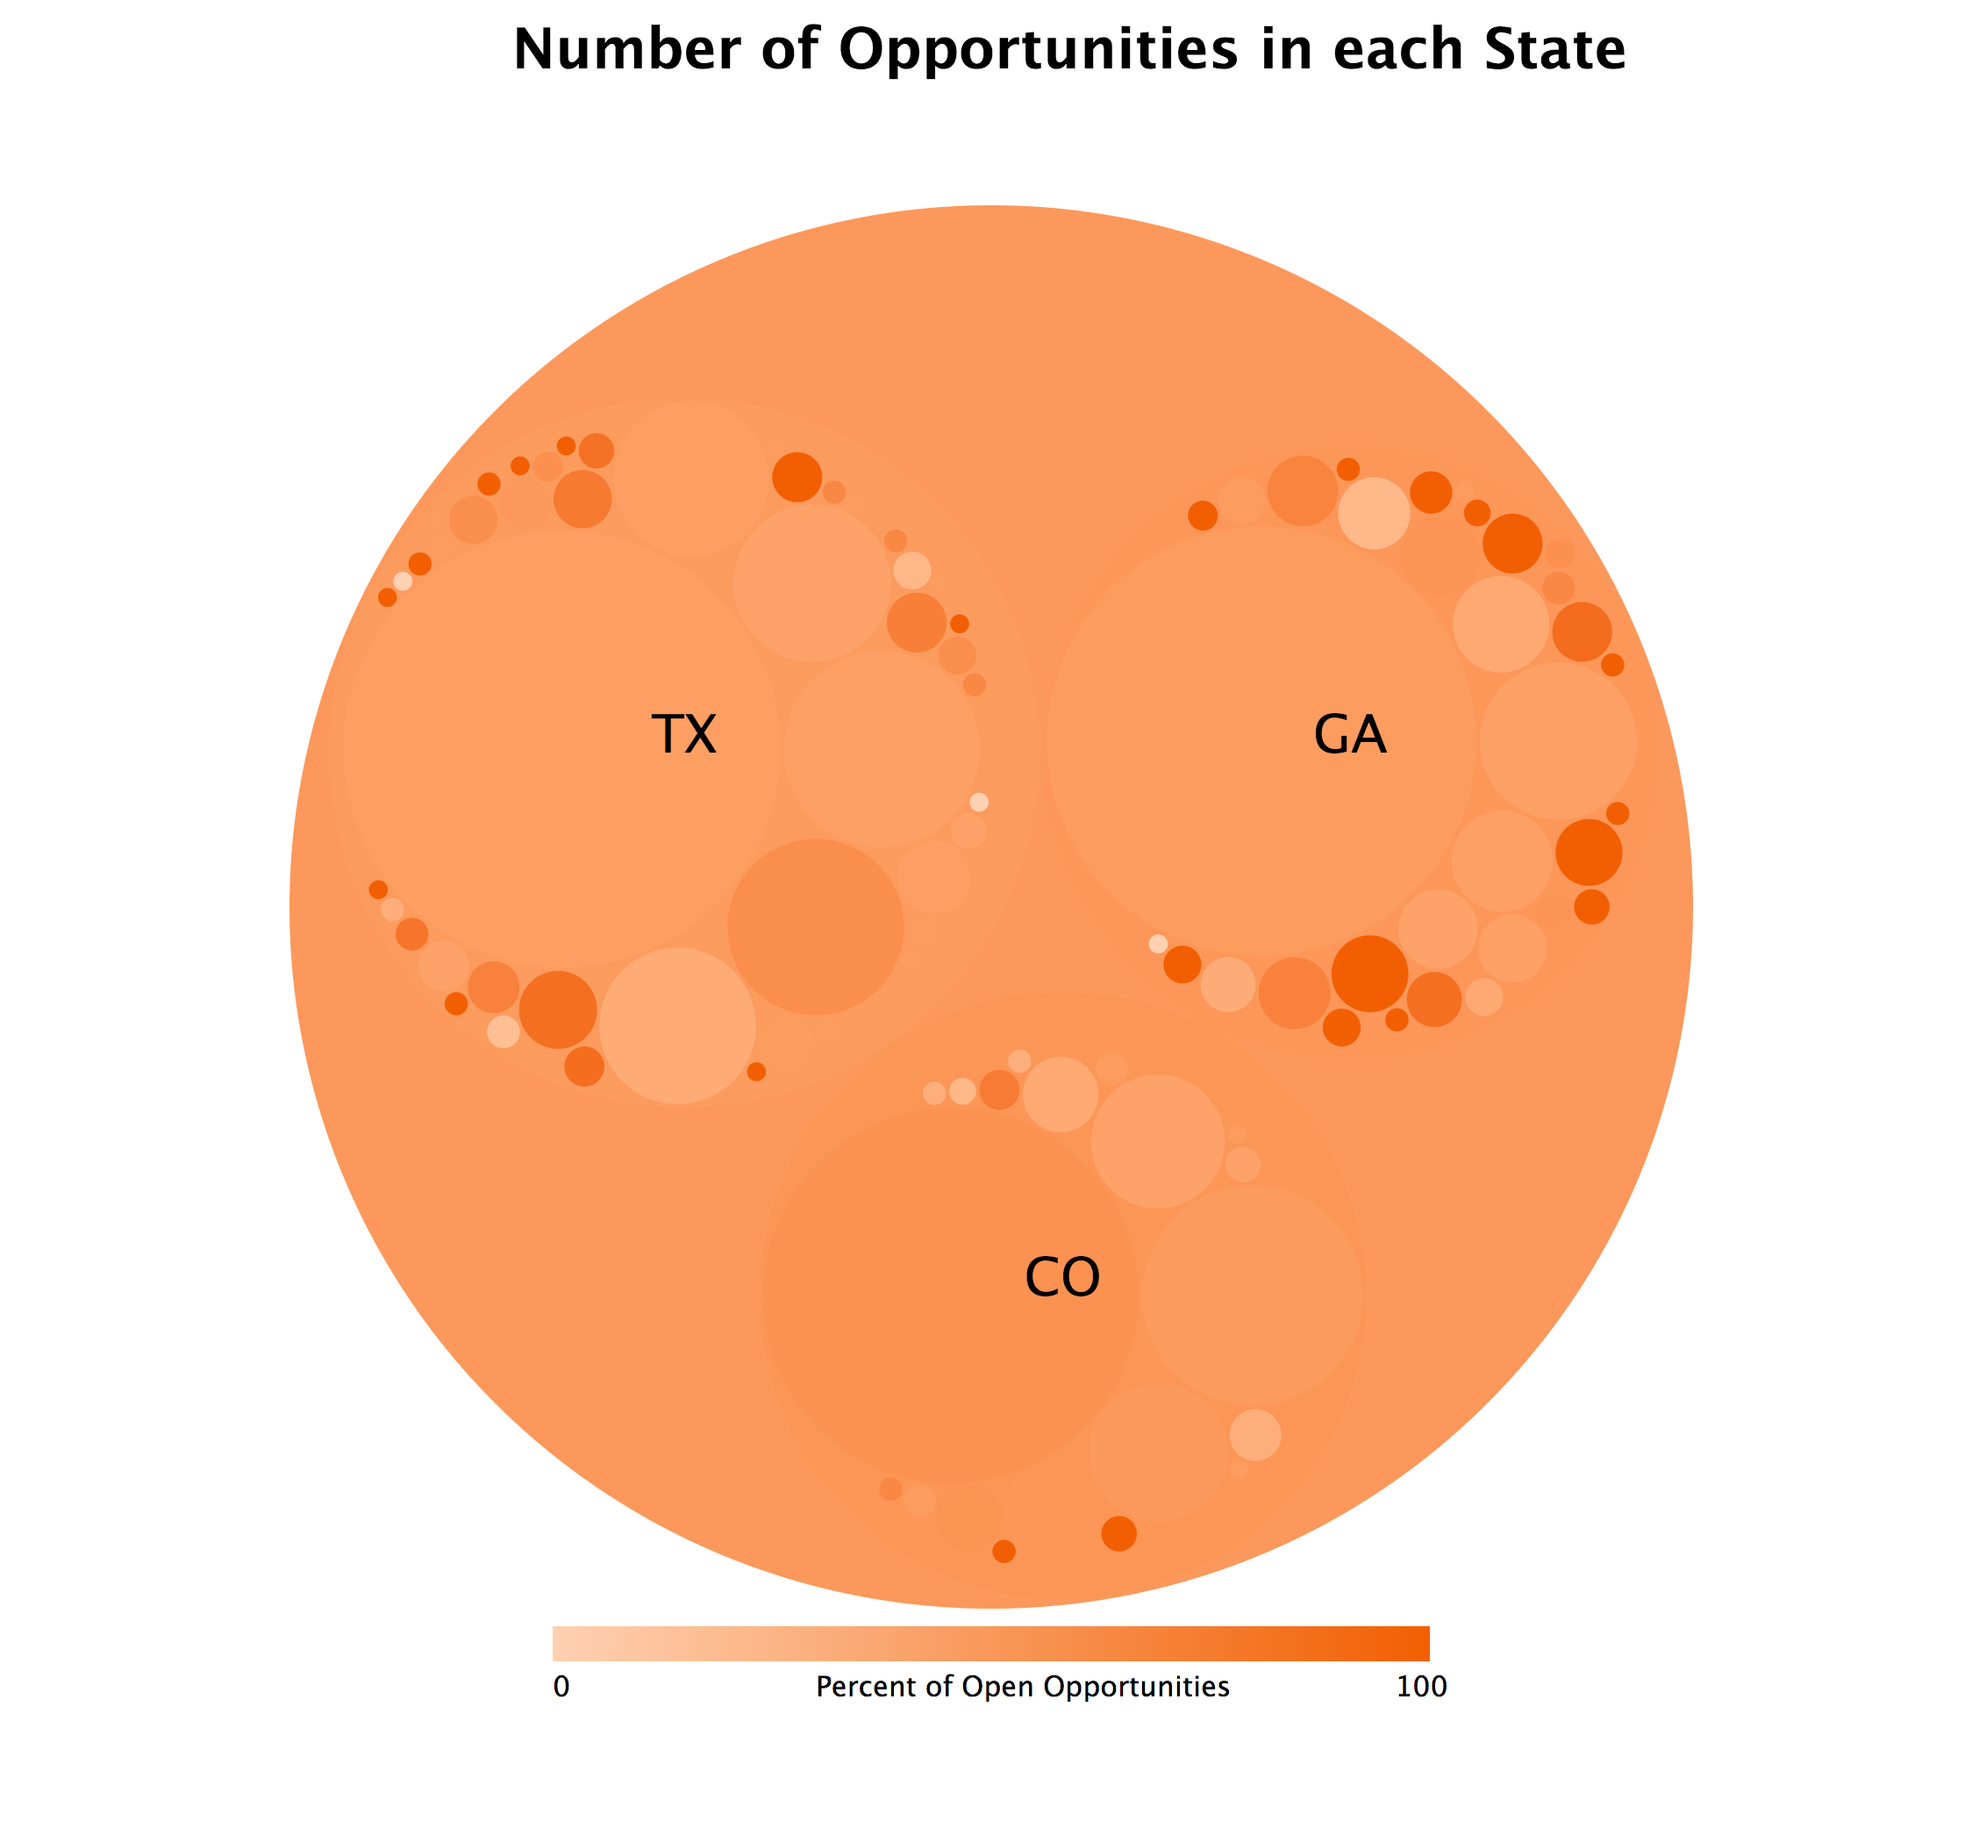
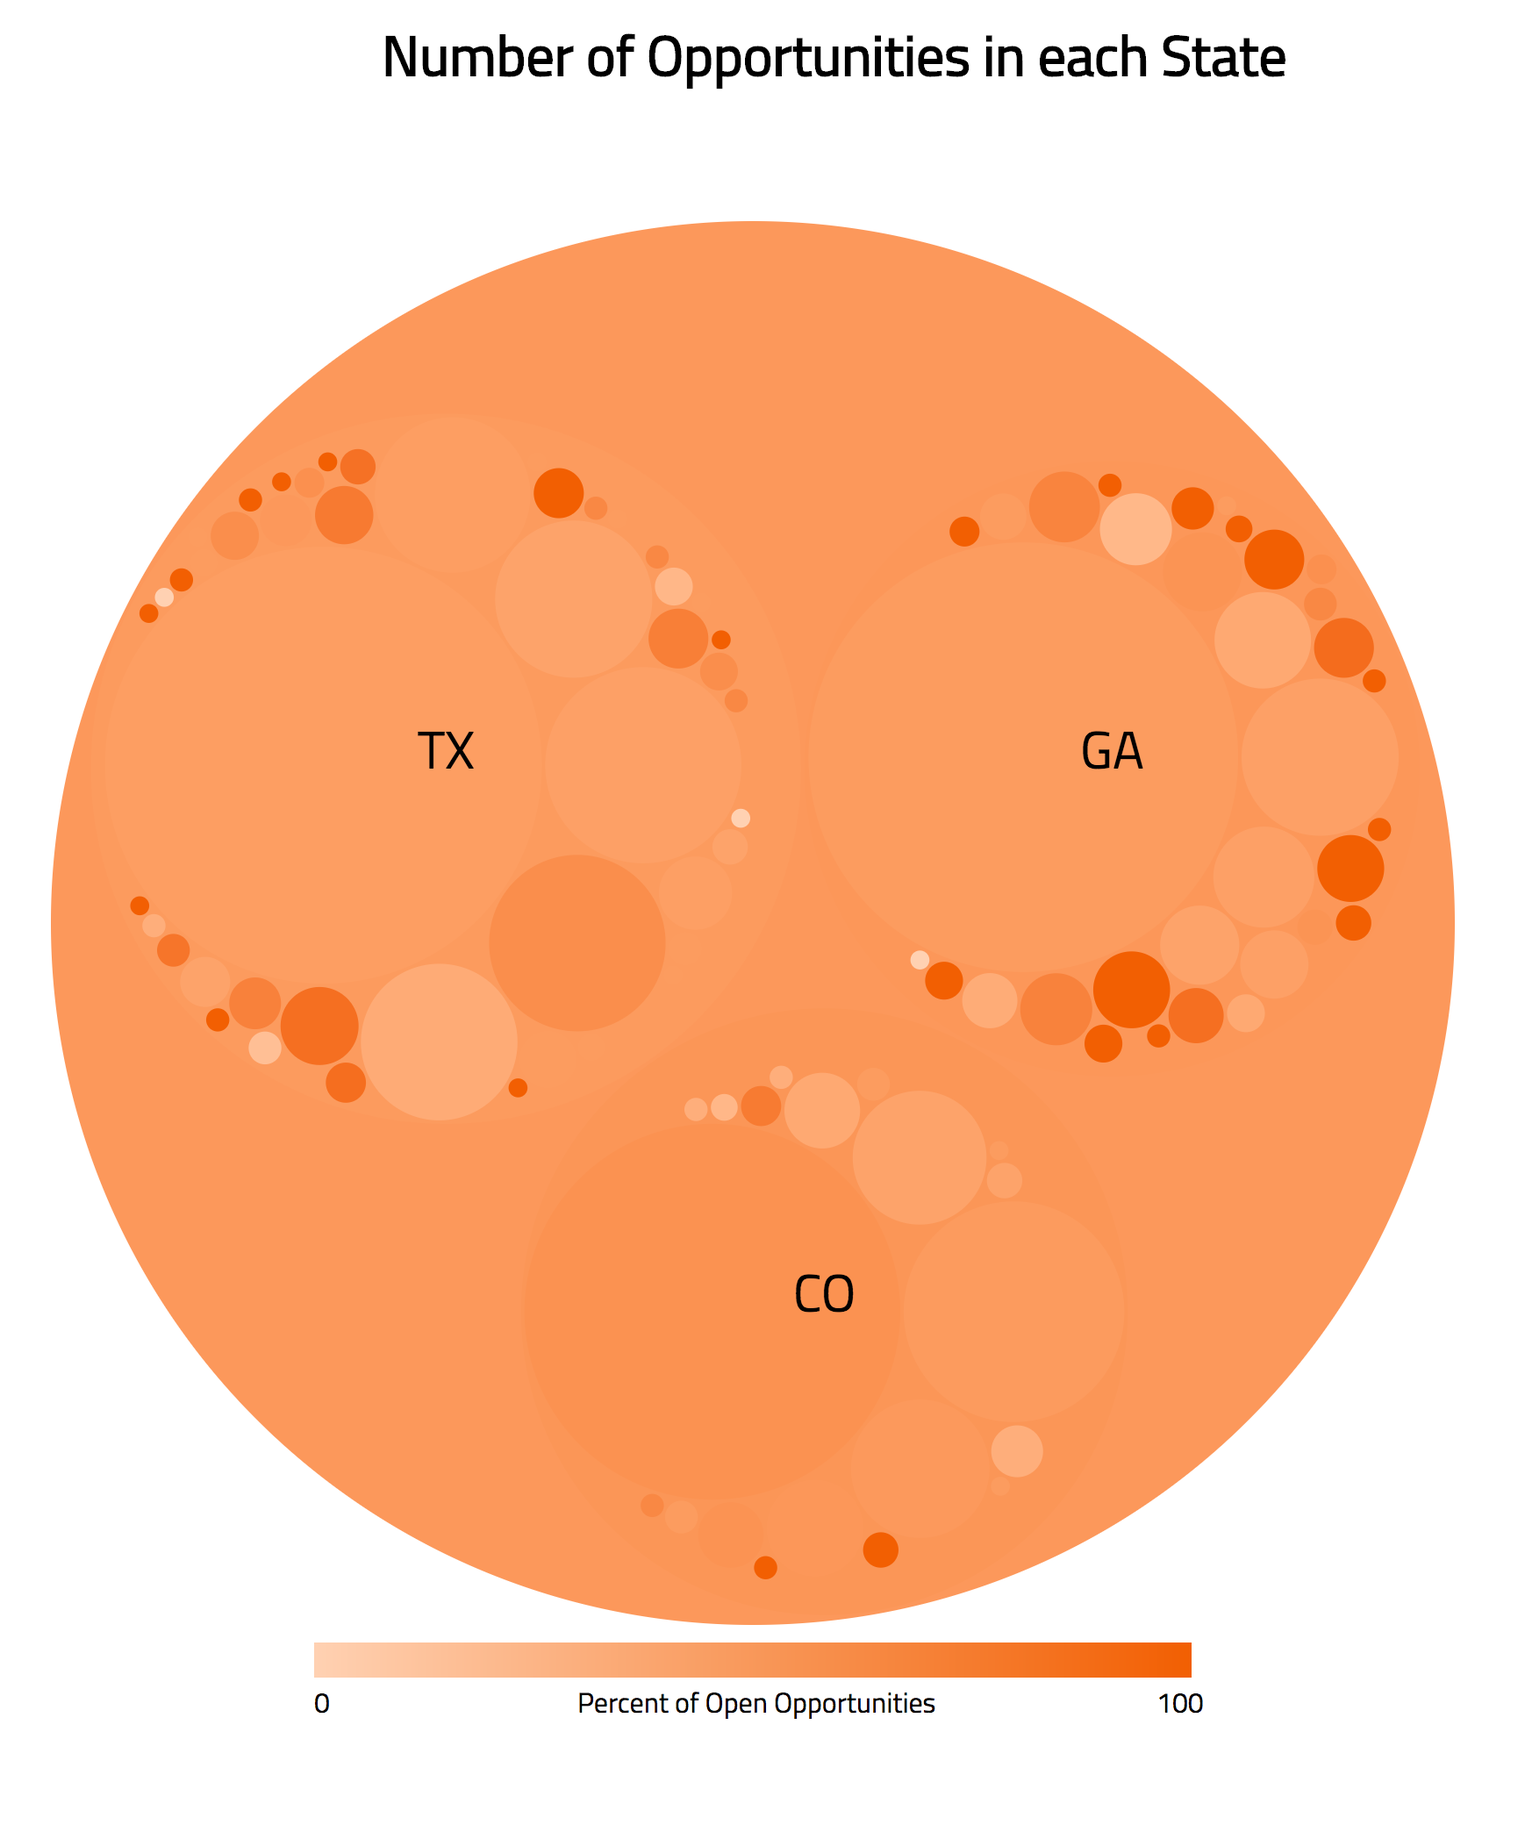
Putting Zanqing's vis into the proper place.

diff --git a/src/client/viz/reg_bar/orange.html b/src/client/viz/reg_bar/orange.html
@@ -1,0 +1,336 @@
+<html>  
+<link href="https://fonts.googleapis.com/css?family=Titillium+Web" rel="stylesheet">
+  <head>  
+        <meta charset="utf-8">  
+        <title>My D3.js Homework</title>
+		<style>
+			.axis path,
+			.axis line{
+				fill: none;
+				stroke: black;
+				shape-rendering: crispEdges;
+			}
+
+			.axis text {
+				font-family: 'Titillium Web', sans-serif;
+				font-size: 11px;
+			}
+			.text text {
+				font-family: 'Titillium Web', sans-serif;
+				font-size: 14px;
+			}
+		</style>
+  </head>  
+    <body> 
+	<div style="padding-left:200;">
+		<form id="chooser">
+		StageName:<select id="StageName" onchange="getData(0)">
+			<option value="All">All</option>
+			<option value="1 - Working">1 - Working</option>
+			<option value="2 - Best Case">2 - Best Case</option>
+			<option value="3 - Committed">3 - Committed</option>
+			<option value="4 - Closed">4 - Closed</option>
+			<option value="5 - Accepted">5 - Accepted</option>
+			<option value="Closed - Lost">Closed - Lost</option>
+		</select><br/>
+		<input id="auto" name="auto" type="checkbox" onchange="settimer()"/>Auto transitions
+		</form>
+	</div>
+	<script>
+		String.prototype.replaceAll = function(s1,s2){
+	　　	return this.replace(new RegExp(s1,"gm"),s2);
+	　　}
+		var m1 = 0;
+		var timer;
+		function autotrans(){
+			var select = document.getElementById("StageName"); 
+			m1 = select.selectedIndex;
+			//m2 = mode?1:0;
+			if(mode){
+				mode=false;
+				m1=(m1+1)%7;
+			}else{
+				mode=true;
+			}
+			
+			select.options[m1].selected = true;
+			getData();
+		}
+		function settimer(){
+		    if(chooser.auto.checked)
+				timer=window.setInterval("autotrans()",4000); 
+			else
+				window.clearInterval(timer); 
+		}
+		
+	</script> 
+	<script src="http://d3js.org/d3.v3.min.js" charset="utf-8"></script>  
+	
+	<script>
+		
+		var StageName = "";
+		var mapState = {};
+		var mapMonth = {};
+		var mapYear = {};
+		var mapStageName = {};
+		
+		var mode = false;
+
+		function getColor(i){
+			var colors = ["#F25F02","#F25F02","#F25F02","#F25F02","#F25F02"];
+			return colors[i];
+		}
+
+		function drawbar(data){
+			d3.select("body svg").remove();
+			//画布大小
+			var width = 500;
+			var height = 400;
+
+			//在 body 里添加一个 SVG 画布   
+			var svg = d3.select("body")
+				.append("svg")
+				.attr("width", width)
+				.attr("height", height);
+
+			//画布周边的空白
+			 var padding = {left:200, right:30, top:30, bottom:20};
+
+			 var dataset = {x:[],y:[]};
+			 for(var index in data)
+			 {
+				dataset.x.push(index);
+				dataset.y.push(Math.round(data[index]));
+			 }
+			//console.log(dataset);
+					
+			//x轴的比例尺
+			var xScale = d3.scale.ordinal()
+				.domain(dataset.x)
+				.rangeRoundBands([0, width - padding.left - padding.right],0,0);
+								 
+			//y轴的比例尺
+			var yScale = d3.scale.linear()
+				.domain([0, d3.max(dataset.y)])
+				.range([height - padding.top - padding.bottom, 0]);
+				
+			var xAxis = d3.svg.axis()
+				.scale(xScale)
+				.orient("bottom");
+					
+			//定义y轴
+			var yAxis = d3.svg.axis()
+				.scale(yScale)
+				.tickFormat(function(d) {
+					var commasFormatter = d3.format(",.0f")
+					return "$" + commasFormatter(d);  
+				})
+				.orient("left");
+
+			//矩形之间的空白
+			var rectPadding = 4;
+			 
+			//添加矩形元素
+			var rects = svg.selectAll(".MyRect")
+					.data(dataset.y)
+					.enter()
+					.append("rect")
+					.attr("class","MyRect")
+					.attr("transform","translate(" + padding.left + "," + padding.top + ")")
+					.attr("x", function(d,i){
+						return xScale(dataset.x[i]) + rectPadding/2;
+					} )
+					.attr("y",function(d){
+						return yScale(d);
+					})
+					.attr("width", xScale.rangeBand() - rectPadding )
+					.attr("height", function(d){
+						return height - padding.top - padding.bottom - yScale(d);
+					})
+					.attr('fill', function(d, i) {
+					   return getColor(i);
+					})
+					.on("click",function(d,i){
+						d3.select("body svg").remove();
+						if(mode){
+							mode = false;
+							drawbar(mapMonth);
+						}else{
+							mode = true;
+							drawbar(mapYear);
+						}
+						
+					})
+			 
+			//添加文字元素
+			var texts = svg.selectAll(".MyText")
+					.data(dataset)
+					.enter()
+					.append("text")
+					.attr("class","MyText")
+					.attr("transform","translate(" + padding.left + "," + padding.top + ")")
+					.attr("x", function(d,i){
+						return xScale(i) + rectPadding/2;
+					} )
+					.attr("y",function(d){
+						return yScale(d);
+					})
+					.attr("dx",function(){
+						return (xScale.rangeBand() - rectPadding)/2;
+					})
+					.attr("dy",function(d){
+						return 20;
+					})
+					.text(function(d,i){
+						return dataset.y[i];
+					});
+					
+
+			//添加x轴
+			svg.append("g")
+			  .attr("class","axis")
+			  .attr("transform","translate(" + padding.left + "," + (height - padding.bottom) + ")")
+			  .attr('fill', "#0080BB")
+			  .call(xAxis); 
+					
+			//添加y轴
+			svg.append("g")
+			  .attr("class","axis")
+			  .attr("transform","translate(" + padding.left + "," + padding.top + ")")
+			  .attr('fill', "#0080BB")
+			  .call(yAxis);
+
+			
+			svg.append("g") 
+			 .append("text") 
+			 .text(function(d,i){
+				  if(mode)
+					 return "Annual Revenue"
+				  else
+					 return "Total BRR"
+			  }) 
+			 .attr("class","text") 
+			 .attr("x",padding.left+100) 
+			 .attr("y",padding.top-15); 
+
+			
+		}
+
+		function clearMap(mapdata){
+			for(var index in mapdata)
+			   mapdata[index]=0;
+		}
+
+		function initMap(){
+			d3.tsv("../../../lib/data/ZayoHackathonData_Sites.csv",function(error,csvdata){  
+				if(error){  
+					console.log(error);  
+				}  
+				//console.log(csvdata);  
+				for( var i=0; i<csvdata.length; i++ ){  
+					var account = csvdata[i]["Account ID"].replace(/(^\s+)|(\s+$)/g, "");  
+					var state = csvdata[i].State.replace(/(^\s+)|(\s+$)/g, "");  
+					mapState[account]=state;
+				} 
+				
+				//for(var index in mapState)
+				//	console.log(index+"->"+mapState[index]);
+				d3.csv("../../../lib/data/ZayoHackathonData_Opportunities.csv",function(error,Oppdata){  
+					if(error){  
+						console.log(error);  
+					}  
+					//console.log(csvdata);  
+					for( var i=0; i<Oppdata.length; i++ ){  
+						var account = Oppdata[i]["Account ID"].replace(/(^\s+)|(\s+$)/g, ""); 
+						var StageName = Oppdata[i]["StageName"]; 
+						
+						mapStageName[account]=StageName;
+						
+					}
+					//console.log(mapStageName);
+					//console.log(mapWon);
+					getData();
+				});
+			
+			});
+		}
+					
+		
+
+		function getData(){
+			
+			clearMap(mapMonth);
+			clearMap(mapYear);
+				
+			
+			StageName = document.getElementById("StageName").value; 
+
+			d3.csv("../../../lib/data/ZayoHackathonData_Accounts.csv",function(error,data){  
+				if(error){  
+					console.log(error);  
+				}  
+				//console.log(csvdata);  
+				for( var j=0; j<data.length; j++ ){  
+					var account = data[j]["Account ID"].replace(/(^\s+)|(\s+$)/g, "");  
+					var brr = data[j][" Total BRR "].replace("$","").replaceAll(",","").replace(/(^\s+)|(\s+$)/g, ""); 
+					var annual = data[j][" AnnualRevenue "].replace("$","").replaceAll(",","").replace(/(^\s+)|(\s+$)/g, ""); 
+					var num = data[j]["NumberOfEmployees"].replace(/(^\s+)|(\s+$)/g, ""); 
+					var state = mapState[account];
+					if(typeof(state)=="undefined"){
+						//console.log(account);
+						continue;
+					}
+										
+					if(state=="OR" || state=="PR" || state=="PA" ){
+						continue;
+					}
+					if(isNaN(brr)){
+						brr=0;
+					}
+					if(isNaN(annual)){
+						annual=0;
+					}
+					
+					if(StageName == "All"){
+						if(state in mapMonth){
+						   mapMonth[state]=parseFloat(mapMonth[state])+parseFloat(brr);
+						}else{
+						   mapMonth[state]=parseFloat(brr);
+						}
+						if(state in mapYear){
+						   mapYear[state]=parseFloat(mapYear[state])+parseFloat(annual);
+						}else{
+						   mapYear[state]=parseFloat(annual);
+						}
+						
+					}else if(typeof(mapStageName[account])!="undefined" && mapStageName[account] == StageName){
+						//console.log(mapStageName[account]); 
+						//console.log(mapWon[account]);
+						if(state in mapMonth){
+						   mapMonth[state]=parseFloat(mapMonth[state])+parseFloat(brr);
+						}else{
+						   mapMonth[state]=parseFloat(brr);
+						}
+						if(state in mapYear){
+						   mapYear[state]=parseFloat(mapYear[state])+parseFloat(annual);
+						}else{
+						   mapYear[state]=parseFloat(annual);
+						}
+						
+					} 
+				}
+				//console.log(mapMonth); 
+				//console.log(mapYear); 
+				//console.log(mapNum); 
+				if(mode)
+					drawbar(mapYear);
+				else
+					drawbar(mapMonth);
+			});
+		}
+		initMap();
+		//settimer();
+        </script>  
+  
+    </body>  
+</html>  

diff --git a/src/client/index.html b/src/client/index.html
@@ -134,7 +134,7 @@
         <div class="row">
             <div class="col-md-7">
                 <a href="#">
-                    <img class="img-responsive" src="http://placehold.it/700x300" alt="">
+                    <img class="img-responsive" src="viz/reg_bar/bar.png" alt="">
                 </a>
             </div>
             <div class="col-md-5">
@@ -142,7 +142,7 @@
                 <h3>Project Five</h3>
                 <h4>Subheading</h4>
                 <p>Lorem ipsum dolor sit amet, consectetur adipisicing elit. Aliquid, quo, minima, inventore voluptatum saepe quos nostrum provident ex quisquam hic odio repellendus atque porro distinctio quae id laboriosam facilis dolorum.</p>
-                <a class="btn btn-primary" href="#">Go to Vis <span class="glyphicon glyphicon-chevron-right"></span></a>
+                <a class="btn btn-primary" href="viz/reg_bar/orange.html">Go to Vis <span class="glyphicon glyphicon-chevron-right"></span></a>
             </div>
         </div>
 
